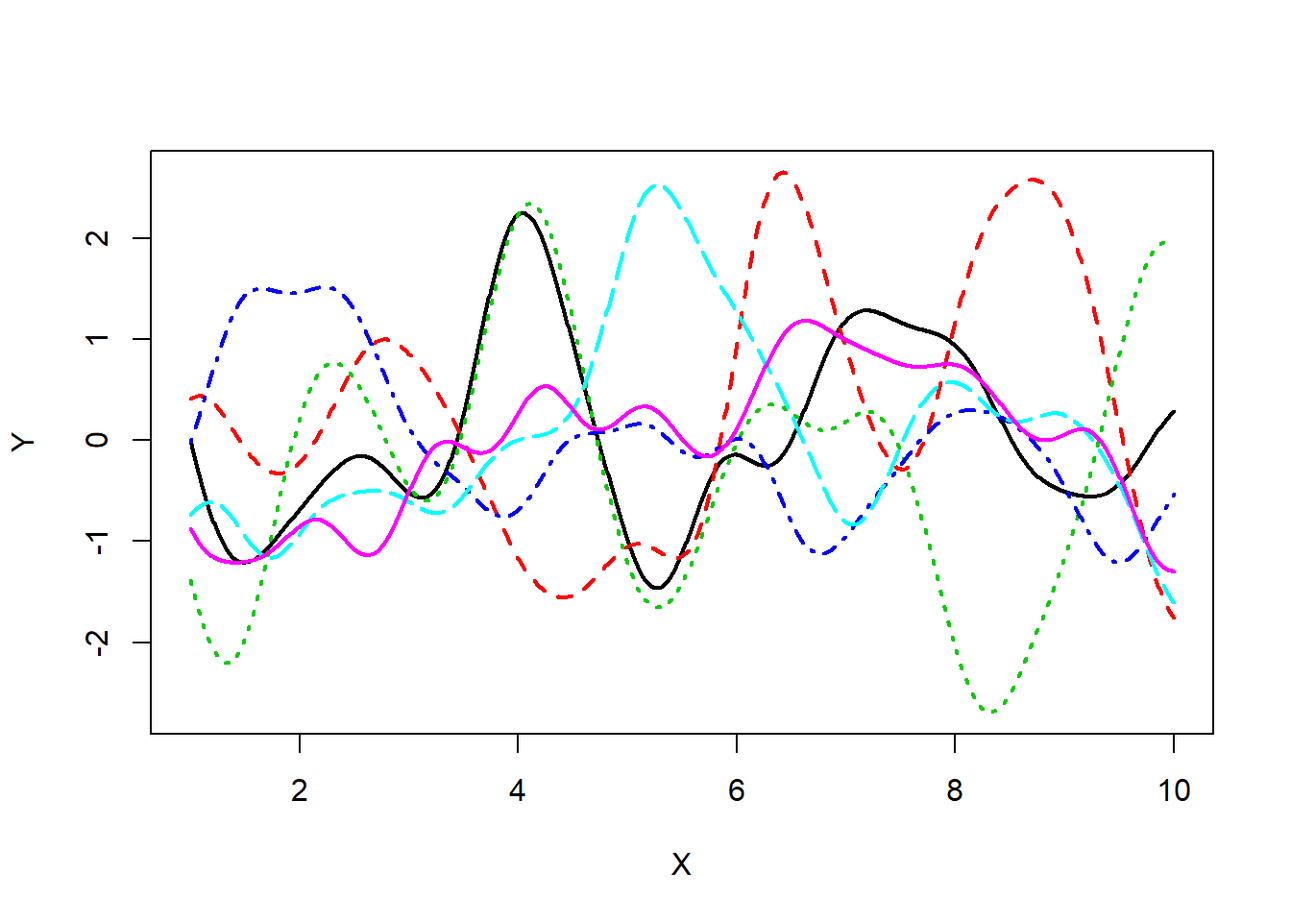
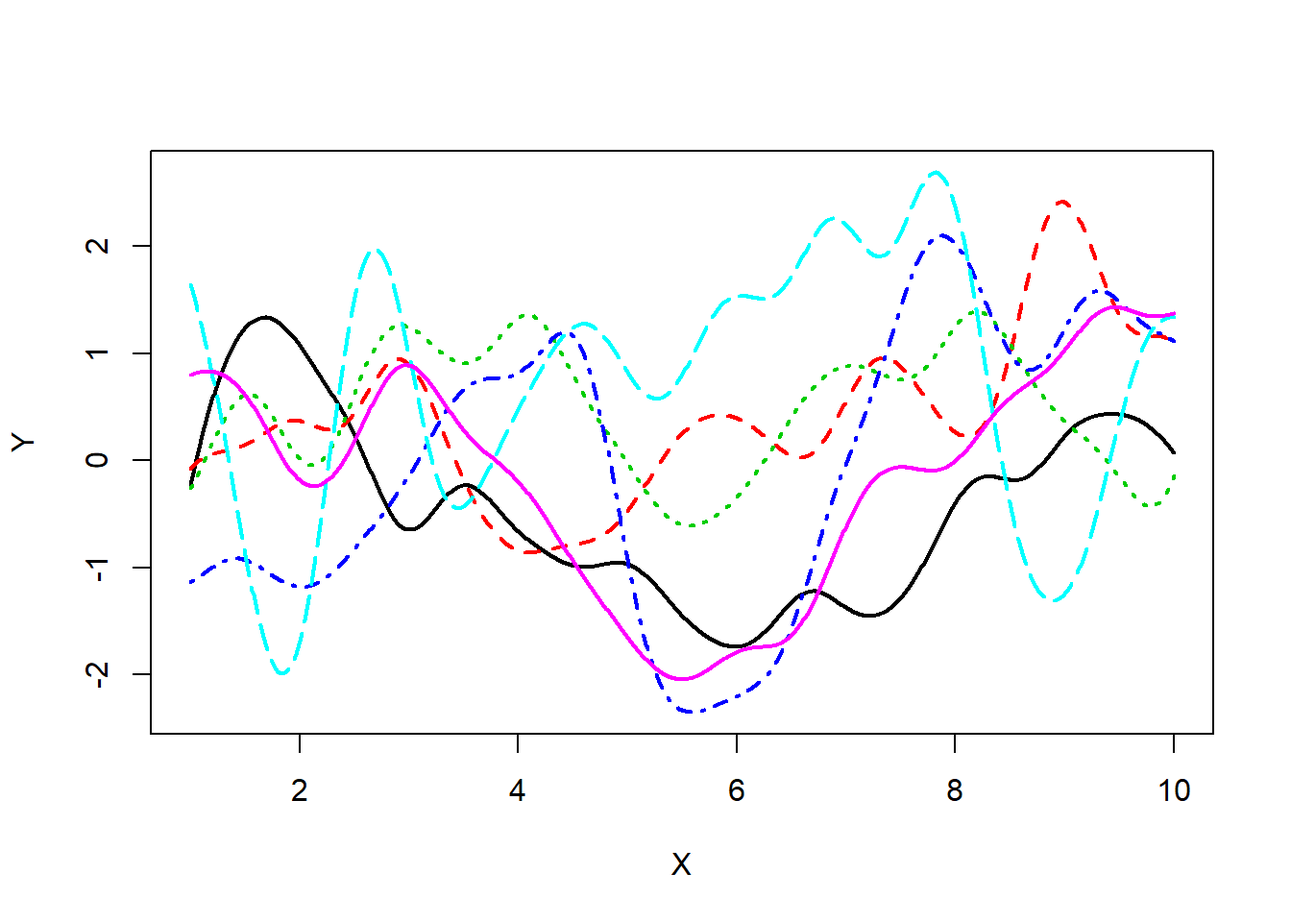
#blogup20190622 2

diff --git a/docs/post/post9/index.html b/docs/post/post9/index.html
@@ -26,7 +26,7 @@
         "datePublished": "2019-05-26 00:00:00 \x2b0000 UTC",
         "dateModified" : "2019-05-26 00:00:00 \x2b0000 UTC",
         "url" : "\/my_blog\/post\/post9\/",
-        "wordCount" : "1004",
+        "wordCount" : "1021",
         "image" : "/my_blog/%!s(\u003cnil\u003e)"",
         "keywords" : [ ""R"",""ガウス過程"","Blog" ]   
     }
@@ -47,9 +47,9 @@
 
 <link rel="stylesheet" href="https://use.fontawesome.com/releases/v5.3.1/css/all.css" integrity="sha384-mzrmE5qonljUremFsqc01SB46JvROS7bZs3IO2EmfFsd15uHvIt+Y8vEf7N7fWAU" crossorigin="anonymous">
 
-<link href="/my_blog/css/style.css?v=1561192814" rel="stylesheet" id="theme-stylesheet" type='text/css' media='all'>
+<link href="/my_blog/css/style.css?v=1561206320" rel="stylesheet" id="theme-stylesheet" type='text/css' media='all'>
 
-<link href="/my_blog/css/custom.css?v=1561192814" rel="stylesheet" type='text/css' media='all'>
+<link href="/my_blog/css/custom.css?v=1561206320" rel="stylesheet" type='text/css' media='all'>
 <link rel="shortcut icon" href="/my_blog/img/favicon.ico" type="image/x-icon">
 <link rel="icon" href="/my_blog/img/favicon.ico" type="image/x-icon">
 
@@ -350,11 +350,11 @@ E[(\textbf{y}_{n}|\textbf{W},\beta)(\textbf{y}_{n}|\textbf{W},\beta)^{T}] &amp;=
 \]</span></p>
 <p>具体的には、通常のガウス過程と同様、</p>
 <p><span class="math display">\[
-\displaystyle y_{i}  = \textbf{W}^{T}\phi(\textbf{x}_{i})+ \epsilon_{n}
+\displaystyle \textbf{y}_{n}  = \textbf{W}^{T}\phi(\textbf{x}_{n})+ \epsilon_{n}
 \]</span></p>
-<p>という風に基底関数<span class="math inline">\(\phi(\textbf{x}_{i})\)</span>をかませて拡張します。<span class="math inline">\(\phi(・)\)</span>は平均<span class="math inline">\(\textbf{0}\)</span>、分散共分散行列<span class="math inline">\(\textbf{K}_{\textbf{x}}\)</span>のガウス過程と仮定します。分散共分散行列<span class="math inline">\(\textbf{K}_{\textbf{x}}\)</span>は</p>
+<p>という風に基底関数<span class="math inline">\(\phi(\textbf{x}_{n})\)</span>をかませて拡張します。<span class="math inline">\(\phi(・)\)</span>は平均<span class="math inline">\(\textbf{0}\)</span>、分散共分散行列<span class="math inline">\(\textbf{K}_{\textbf{x}}\)</span>のガウス過程と仮定します。分散共分散行列<span class="math inline">\(\textbf{K}_{\textbf{x}}\)</span>は</p>
 <p><span class="math display">\[
-$\textbf{K}_{\textbf{x}}$ = \alpha^2\phi(\textbf{x})\phi(\textbf{x})^T
+\textbf{K}_{\textbf{x}} = \alpha^2\phi(\textbf{x})\phi(\textbf{x})^T
 \]</span></p>
 <p>であり、入力ベクトル<span class="math inline">\(\textbf{X}\)</span>を<span class="math inline">\(\phi(\textbf{・})\)</span>で非線形変換した特徴量<span class="math inline">\(\phi(\textbf{x})\)</span>が近いほど、出力値<span class="math inline">\(\textbf{Y}\)</span>も近くなりやすいという性質があることになります。GPLVMではこの性質を逆に利用しています。つまり、出力値<span class="math inline">\(Y_i\)</span>と<span class="math inline">\(Y_j\)</span>が近い→<span class="math inline">\(\phi(\textbf{x}_i)\)</span>と<span class="math inline">\(\phi(\textbf{x}_j)\)</span>が近い（内積が大きい）→<span class="math inline">\(\textbf{K}_{x,ij}\)</span>が大きい→観測不可能なデータ<span class="math inline">\(X_{i}\)</span>と<span class="math inline">\(X_{j}\)</span>は近い値（or同じようなパターン）をとる。
 この議論からもわかるように、<span class="math inline">\(\textbf{K}_{\textbf{x}}\)</span>は入力ベクトル<span class="math inline">\(\textbf{X}\)</span>それぞれの距離を表したものになります。分散共分散行列の計算には入力ベクトル<span class="math inline">\(\textbf{X}\)</span>を基底関数<span class="math inline">\(\phi(\textbf{・})\)</span>で非線形変換した後、内積を求めるといったことをする必要はなく、カーネル関数を計算するのみでOKです。今回は王道中の王道RBFカーネルを使用していますので、これを例説明します。</p>
@@ -383,13 +383,13 @@ K_{x}(x,x&#39;) &amp;=&amp; \lim_{H \to \infty}\sum_{h=-H^2}^{H^2}\phi_{h}(x)\ph
 &amp;=&amp; \tau^2 \int_{-\infty}^{\infty}\exp(-\frac{1}{r}\{2(h-\frac{x+x&#39;}{2})^2+\frac{1}{2}(x-x&#39;)^2\})dh \\
 \end{eqnarray*}
 \]</span></p>
-<p>となります。<span class="math inline">\(h\)</span>に関係の内部分を積分の外に出します。</p>
+<p>となります。<span class="math inline">\(h\)</span>に関係のない部分を積分の外に出します。</p>
 <p><span class="math display">\[
 \begin{eqnarray*}
 &amp;=&amp; \tau^2 \int_{-\infty}^{\infty}\exp(-\frac{2}{r}(h-\frac{x+x&#39;}{2})^2)dh\exp(-\frac{1}{2r}(x-x&#39;)^2) \\
 \end{eqnarray*}
 \]</span></p>
-<p>残った積分を見ると、正規分布の正規化手数と等しいことがわかります。</p>
+<p>残った積分を見ると、正規分布の正規化定数と等しいことがわかります。</p>
 <p><span class="math display">\[
 \begin{eqnarray*}
 \int_{-\infty}^{\infty}\exp(-\frac{1}{2\sigma}(h-\frac{x+x&#39;}{2})^2)dh &amp;=&amp;  \int_{-\infty}^{\infty}\exp(-\frac{2}{r}(h-\frac{x+x&#39;}{2})^2)dh\\
@@ -400,7 +400,7 @@ K_{x}(x,x&#39;) &amp;=&amp; \lim_{H \to \infty}\sum_{h=-H^2}^{H^2}\phi_{h}(x)\ph
 <p><span class="math display">\[
 \begin{eqnarray*}
 &amp;=&amp; \tau^2 \sqrt{\frac{\pi r}{2}}\exp(-\frac{1}{2r}(x-x&#39;)^2)　\\
-&amp;=&amp; \theta_{1}\exp(-\frac{1}{\theta_{2}}(x-x^T)^2)
+&amp;=&amp; \theta_{1}\exp(-\frac{1}{\theta_{2}}(x-x’)^2)
 \end{eqnarray*}
 \]</span></p>
 <p>となり、RBFカーネルと等しくなることがわかります。よって、RBFカーネルで計算した共分散は上述した基底関数で入力<span class="math inline">\(x\)</span>を無限次元へ拡張した特徴量ベクトルの内積から計算した共分散と同値になることがわかります。つまり、入力<span class="math inline">\(x\)</span>と<span class="math inline">\(x&#39;\)</span>のスカラーの計算のみで<span class="math inline">\(K_{x}(x,x&#39;)\)</span>ができてしまうという夢のような計算効率化が可能になるわけです。無限次元特徴量ベクトルの回帰問題なんて普通計算できませんからね。。。カーネル関数は偉大です。
@@ -435,6 +435,12 @@ Y &lt;-<span class="st"> </span><span class="kw">matrix</span>(<span class="dv">
 <span class="co"># Plot</span>
 <span class="kw">matplot</span>(<span class="dt">x=</span>X,<span class="dt">y=</span>Y,<span class="dt">type =</span> <span class="st">&quot;l&quot;</span>,<span class="dt">lwd =</span> <span class="dv">2</span>)</code></pre>
 <p><img src="/my_blog/post/post9_files/figure-html/unnamed-chunk-1-1.png" width="672" /></p>
+<p>非常に滑らかな関数となっていることがわかります。RBFのほかにもカーネル関数は存在します。カーネル関数を変えると基底関数が変わりますから、サンプルパスは大きく変わることになります。</p>
+<p>GPLVMの推定方法に話を進めましょう。PPCAの時と同じく、以下の尤度を最大化する観測不能な入力<span class="math inline">\(x\)</span>を推定値とします。</p>
+<p><span class="math display">\[
+\displaystyle L = - \frac{DN}{2}\ln{2\pi} - \frac{1}{2}\ln{|\textbf{K}|} - \frac{1}{2}\textbf{tr}(\textbf{K}^{-1}\textbf{YY}^{T})
+\]</span></p>
+<p>ただ、PPCAとは異なり、その値は解析的に求めることができません。尤度関数の導関数<span class="math inline">\(\displaystyle \frac{1}{D}\textbf{Y}\textbf{Y}^{T}\textbf{K}^{-1}\textbf{X} = \textbf{X}\)</span>の<span class="math inline">\(\textbf{K}\)</span>は今や複雑な関数であり、展開することができないからです。よって、共役勾配法を用いて数値的に計算するのが主流なようです（自分は準ニュートン法で実装）。</p>
 </div>
 <div id="r" class="section level3">
 <h3>Rでの実装</h3>
@@ -798,7 +804,7 @@ src="//cdn.bootcss.com/mathjax/2.7.1/MathJax.js?config=TeX-MML-AM_CHTML">
   </div>
   <script src="/my_blog/js/jquery.min.js"></script>
 <script src="/my_blog/js/jquerymigrate.js"></script>
-<script src="/my_blog/js/production.min.js?v=1561192814"></script>
+<script src="/my_blog/js/production.min.js?v=1561206320"></script>
 
 </body>
 </html>

diff --git a/content/post/post9.html b/content/post/post9.html
@@ -188,11 +188,11 @@ E[(\textbf{y}_{n}|\textbf{W},\beta)(\textbf{y}_{n}|\textbf{W},\beta)^{T}] &amp;=
 \]</span></p>
 <p>具体的には、通常のガウス過程と同様、</p>
 <p><span class="math display">\[
-\displaystyle y_{i}  = \textbf{W}^{T}\phi(\textbf{x}_{i})+ \epsilon_{n}
+\displaystyle \textbf{y}_{n}  = \textbf{W}^{T}\phi(\textbf{x}_{n})+ \epsilon_{n}
 \]</span></p>
-<p>という風に基底関数<span class="math inline">\(\phi(\textbf{x}_{i})\)</span>をかませて拡張します。<span class="math inline">\(\phi(・)\)</span>は平均<span class="math inline">\(\textbf{0}\)</span>、分散共分散行列<span class="math inline">\(\textbf{K}_{\textbf{x}}\)</span>のガウス過程と仮定します。分散共分散行列<span class="math inline">\(\textbf{K}_{\textbf{x}}\)</span>は</p>
+<p>という風に基底関数<span class="math inline">\(\phi(\textbf{x}_{n})\)</span>をかませて拡張します。<span class="math inline">\(\phi(・)\)</span>は平均<span class="math inline">\(\textbf{0}\)</span>、分散共分散行列<span class="math inline">\(\textbf{K}_{\textbf{x}}\)</span>のガウス過程と仮定します。分散共分散行列<span class="math inline">\(\textbf{K}_{\textbf{x}}\)</span>は</p>
 <p><span class="math display">\[
-$\textbf{K}_{\textbf{x}}$ = \alpha^2\phi(\textbf{x})\phi(\textbf{x})^T
+\textbf{K}_{\textbf{x}} = \alpha^2\phi(\textbf{x})\phi(\textbf{x})^T
 \]</span></p>
 <p>であり、入力ベクトル<span class="math inline">\(\textbf{X}\)</span>を<span class="math inline">\(\phi(\textbf{・})\)</span>で非線形変換した特徴量<span class="math inline">\(\phi(\textbf{x})\)</span>が近いほど、出力値<span class="math inline">\(\textbf{Y}\)</span>も近くなりやすいという性質があることになります。GPLVMではこの性質を逆に利用しています。つまり、出力値<span class="math inline">\(Y_i\)</span>と<span class="math inline">\(Y_j\)</span>が近い→<span class="math inline">\(\phi(\textbf{x}_i)\)</span>と<span class="math inline">\(\phi(\textbf{x}_j)\)</span>が近い（内積が大きい）→<span class="math inline">\(\textbf{K}_{x,ij}\)</span>が大きい→観測不可能なデータ<span class="math inline">\(X_{i}\)</span>と<span class="math inline">\(X_{j}\)</span>は近い値（or同じようなパターン）をとる。
 この議論からもわかるように、<span class="math inline">\(\textbf{K}_{\textbf{x}}\)</span>は入力ベクトル<span class="math inline">\(\textbf{X}\)</span>それぞれの距離を表したものになります。分散共分散行列の計算には入力ベクトル<span class="math inline">\(\textbf{X}\)</span>を基底関数<span class="math inline">\(\phi(\textbf{・})\)</span>で非線形変換した後、内積を求めるといったことをする必要はなく、カーネル関数を計算するのみでOKです。今回は王道中の王道RBFカーネルを使用していますので、これを例説明します。</p>
@@ -221,13 +221,13 @@ K_{x}(x,x&#39;) &amp;=&amp; \lim_{H \to \infty}\sum_{h=-H^2}^{H^2}\phi_{h}(x)\ph
 &amp;=&amp; \tau^2 \int_{-\infty}^{\infty}\exp(-\frac{1}{r}\{2(h-\frac{x+x&#39;}{2})^2+\frac{1}{2}(x-x&#39;)^2\})dh \\
 \end{eqnarray*}
 \]</span></p>
-<p>となります。<span class="math inline">\(h\)</span>に関係の内部分を積分の外に出します。</p>
+<p>となります。<span class="math inline">\(h\)</span>に関係のない部分を積分の外に出します。</p>
 <p><span class="math display">\[
 \begin{eqnarray*}
 &amp;=&amp; \tau^2 \int_{-\infty}^{\infty}\exp(-\frac{2}{r}(h-\frac{x+x&#39;}{2})^2)dh\exp(-\frac{1}{2r}(x-x&#39;)^2) \\
 \end{eqnarray*}
 \]</span></p>
-<p>残った積分を見ると、正規分布の正規化手数と等しいことがわかります。</p>
+<p>残った積分を見ると、正規分布の正規化定数と等しいことがわかります。</p>
 <p><span class="math display">\[
 \begin{eqnarray*}
 \int_{-\infty}^{\infty}\exp(-\frac{1}{2\sigma}(h-\frac{x+x&#39;}{2})^2)dh &amp;=&amp;  \int_{-\infty}^{\infty}\exp(-\frac{2}{r}(h-\frac{x+x&#39;}{2})^2)dh\\
@@ -238,7 +238,7 @@ K_{x}(x,x&#39;) &amp;=&amp; \lim_{H \to \infty}\sum_{h=-H^2}^{H^2}\phi_{h}(x)\ph
 <p><span class="math display">\[
 \begin{eqnarray*}
 &amp;=&amp; \tau^2 \sqrt{\frac{\pi r}{2}}\exp(-\frac{1}{2r}(x-x&#39;)^2)　\\
-&amp;=&amp; \theta_{1}\exp(-\frac{1}{\theta_{2}}(x-x^T)^2)
+&amp;=&amp; \theta_{1}\exp(-\frac{1}{\theta_{2}}(x-x’)^2)
 \end{eqnarray*}
 \]</span></p>
 <p>となり、RBFカーネルと等しくなることがわかります。よって、RBFカーネルで計算した共分散は上述した基底関数で入力<span class="math inline">\(x\)</span>を無限次元へ拡張した特徴量ベクトルの内積から計算した共分散と同値になることがわかります。つまり、入力<span class="math inline">\(x\)</span>と<span class="math inline">\(x&#39;\)</span>のスカラーの計算のみで<span class="math inline">\(K_{x}(x,x&#39;)\)</span>ができてしまうという夢のような計算効率化が可能になるわけです。無限次元特徴量ベクトルの回帰問題なんて普通計算できませんからね。。。カーネル関数は偉大です。
@@ -273,6 +273,12 @@ Y &lt;-<span class="st"> </span><span class="kw">matrix</span>(<span class="dv">
 <span class="co"># Plot</span>
 <span class="kw">matplot</span>(<span class="dt">x=</span>X,<span class="dt">y=</span>Y,<span class="dt">type =</span> <span class="st">&quot;l&quot;</span>,<span class="dt">lwd =</span> <span class="dv">2</span>)</code></pre>
 <p><img src="/my_blog/post/post9_files/figure-html/unnamed-chunk-1-1.png" width="672" /></p>
+<p>非常に滑らかな関数となっていることがわかります。RBFのほかにもカーネル関数は存在します。カーネル関数を変えると基底関数が変わりますから、サンプルパスは大きく変わることになります。</p>
+<p>GPLVMの推定方法に話を進めましょう。PPCAの時と同じく、以下の尤度を最大化する観測不能な入力<span class="math inline">\(x\)</span>を推定値とします。</p>
+<p><span class="math display">\[
+\displaystyle L = - \frac{DN}{2}\ln{2\pi} - \frac{1}{2}\ln{|\textbf{K}|} - \frac{1}{2}\textbf{tr}(\textbf{K}^{-1}\textbf{YY}^{T})
+\]</span></p>
+<p>ただ、PPCAとは異なり、その値は解析的に求めることができません。尤度関数の導関数<span class="math inline">\(\displaystyle \frac{1}{D}\textbf{Y}\textbf{Y}^{T}\textbf{K}^{-1}\textbf{X} = \textbf{X}\)</span>の<span class="math inline">\(\textbf{K}\)</span>は今や複雑な関数であり、展開することができないからです。よって、共役勾配法を用いて数値的に計算するのが主流なようです（自分は準ニュートン法で実装）。</p>
 </div>
 <div id="r" class="section level3">
 <h3>Rでの実装</h3>

diff --git a/docs/post/post5/index.html b/docs/post/post5/index.html
@@ -47,9 +47,9 @@
 
 <link rel="stylesheet" href="https://use.fontawesome.com/releases/v5.3.1/css/all.css" integrity="sha384-mzrmE5qonljUremFsqc01SB46JvROS7bZs3IO2EmfFsd15uHvIt+Y8vEf7N7fWAU" crossorigin="anonymous">
 
-<link href="/my_blog/css/style.css?v=1561192814" rel="stylesheet" id="theme-stylesheet" type='text/css' media='all'>
+<link href="/my_blog/css/style.css?v=1561206320" rel="stylesheet" id="theme-stylesheet" type='text/css' media='all'>
 
-<link href="/my_blog/css/custom.css?v=1561192814" rel="stylesheet" type='text/css' media='all'>
+<link href="/my_blog/css/custom.css?v=1561206320" rel="stylesheet" type='text/css' media='all'>
 <link rel="shortcut icon" href="/my_blog/img/favicon.ico" type="image/x-icon">
 <link rel="icon" href="/my_blog/img/favicon.ico" type="image/x-icon">
 
@@ -1405,7 +1405,7 @@ src="//cdn.bootcss.com/mathjax/2.7.1/MathJax.js?config=TeX-MML-AM_CHTML">
   </div>
   <script src="/my_blog/js/jquery.min.js"></script>
 <script src="/my_blog/js/jquerymigrate.js"></script>
-<script src="/my_blog/js/production.min.js?v=1561192814"></script>
+<script src="/my_blog/js/production.min.js?v=1561206320"></script>
 
 </body>
 </html>

diff --git a/docs/about/index.html b/docs/about/index.html
@@ -47,9 +47,9 @@
 
 <link rel="stylesheet" href="https://use.fontawesome.com/releases/v5.3.1/css/all.css" integrity="sha384-mzrmE5qonljUremFsqc01SB46JvROS7bZs3IO2EmfFsd15uHvIt+Y8vEf7N7fWAU" crossorigin="anonymous">
 
-<link href="/my_blog/css/style.css?v=1561192814" rel="stylesheet" id="theme-stylesheet" type='text/css' media='all'>
+<link href="/my_blog/css/style.css?v=1561206320" rel="stylesheet" id="theme-stylesheet" type='text/css' media='all'>
 
-<link href="/my_blog/css/custom.css?v=1561192814" rel="stylesheet" type='text/css' media='all'>
+<link href="/my_blog/css/custom.css?v=1561206320" rel="stylesheet" type='text/css' media='all'>
 <link rel="shortcut icon" href="/my_blog/img/favicon.ico" type="image/x-icon">
 <link rel="icon" href="/my_blog/img/favicon.ico" type="image/x-icon">
 
@@ -439,7 +439,7 @@ src="//cdn.bootcss.com/mathjax/2.7.1/MathJax.js?config=TeX-MML-AM_CHTML">
   </div>
   <script src="/my_blog/js/jquery.min.js"></script>
 <script src="/my_blog/js/jquerymigrate.js"></script>
-<script src="/my_blog/js/production.min.js?v=1561192814"></script>
+<script src="/my_blog/js/production.min.js?v=1561206320"></script>
 
 </body>
 </html>

diff --git a/docs/contact/index.html b/docs/contact/index.html
@@ -47,9 +47,9 @@
 
 <link rel="stylesheet" href="https://use.fontawesome.com/releases/v5.3.1/css/all.css" integrity="sha384-mzrmE5qonljUremFsqc01SB46JvROS7bZs3IO2EmfFsd15uHvIt+Y8vEf7N7fWAU" crossorigin="anonymous">
 
-<link href="/my_blog/css/style.css?v=1561192814" rel="stylesheet" id="theme-stylesheet" type='text/css' media='all'>
+<link href="/my_blog/css/style.css?v=1561206320" rel="stylesheet" id="theme-stylesheet" type='text/css' media='all'>
 
-<link href="/my_blog/css/custom.css?v=1561192814" rel="stylesheet" type='text/css' media='all'>
+<link href="/my_blog/css/custom.css?v=1561206320" rel="stylesheet" type='text/css' media='all'>
 <link rel="shortcut icon" href="/my_blog/img/favicon.ico" type="image/x-icon">
 <link rel="icon" href="/my_blog/img/favicon.ico" type="image/x-icon">
 
@@ -364,7 +364,7 @@ src="//cdn.bootcss.com/mathjax/2.7.1/MathJax.js?config=TeX-MML-AM_CHTML">
   </div>
   <script src="/my_blog/js/jquery.min.js"></script>
 <script src="/my_blog/js/jquerymigrate.js"></script>
-<script src="/my_blog/js/production.min.js?v=1561192814"></script>
+<script src="/my_blog/js/production.min.js?v=1561206320"></script>
 
 </body>
 </html>

diff --git a/docs/index.html b/docs/index.html
@@ -48,9 +48,9 @@
 
 <link rel="stylesheet" href="https://use.fontawesome.com/releases/v5.3.1/css/all.css" integrity="sha384-mzrmE5qonljUremFsqc01SB46JvROS7bZs3IO2EmfFsd15uHvIt+Y8vEf7N7fWAU" crossorigin="anonymous">
 
-<link href="/my_blog/css/style.css?v=1561192814" rel="stylesheet" id="theme-stylesheet" type='text/css' media='all'>
+<link href="/my_blog/css/style.css?v=1561206320" rel="stylesheet" id="theme-stylesheet" type='text/css' media='all'>
 
-<link href="/my_blog/css/custom.css?v=1561192814" rel="stylesheet" type='text/css' media='all'>
+<link href="/my_blog/css/custom.css?v=1561206320" rel="stylesheet" type='text/css' media='all'>
 <link rel="shortcut icon" href="/my_blog/img/favicon.ico" type="image/x-icon">
 <link rel="icon" href="/my_blog/img/favicon.ico" type="image/x-icon">
 
@@ -944,7 +944,7 @@ src="//cdn.bootcss.com/mathjax/2.7.1/MathJax.js?config=TeX-MML-AM_CHTML">
   </div>
   <script src="/my_blog/js/jquery.min.js"></script>
 <script src="/my_blog/js/jquerymigrate.js"></script>
-<script src="/my_blog/js/production.min.js?v=1561192814"></script>
+<script src="/my_blog/js/production.min.js?v=1561206320"></script>
 
 </body>
 </html>

diff --git a/docs/page/2/index.html b/docs/page/2/index.html
@@ -48,9 +48,9 @@
 
 <link rel="stylesheet" href="https://use.fontawesome.com/releases/v5.3.1/css/all.css" integrity="sha384-mzrmE5qonljUremFsqc01SB46JvROS7bZs3IO2EmfFsd15uHvIt+Y8vEf7N7fWAU" crossorigin="anonymous">
 
-<link href="/my_blog/css/style.css?v=1561196446" rel="stylesheet" id="theme-stylesheet" type='text/css' media='all'>
+<link href="/my_blog/css/style.css?v=1561208100" rel="stylesheet" id="theme-stylesheet" type='text/css' media='all'>
 
-<link href="/my_blog/css/custom.css?v=1561196446" rel="stylesheet" type='text/css' media='all'>
+<link href="/my_blog/css/custom.css?v=1561208100" rel="stylesheet" type='text/css' media='all'>
 <link rel="shortcut icon" href="/my_blog/img/favicon.ico" type="image/x-icon">
 <link rel="icon" href="/my_blog/img/favicon.ico" type="image/x-icon">
 
@@ -642,7 +642,7 @@ src="//cdn.bootcss.com/mathjax/2.7.1/MathJax.js?config=TeX-MML-AM_CHTML">
   </div>
   <script src="/my_blog/js/jquery.min.js"></script>
 <script src="/my_blog/js/jquerymigrate.js"></script>
-<script src="/my_blog/js/production.min.js?v=1561196446"></script>
+<script src="/my_blog/js/production.min.js?v=1561208100"></script>
 
 </body>
 </html>

diff --git a/docs/post/post2/index.html b/docs/post/post2/index.html
@@ -47,9 +47,9 @@
 
 <link rel="stylesheet" href="https://use.fontawesome.com/releases/v5.3.1/css/all.css" integrity="sha384-mzrmE5qonljUremFsqc01SB46JvROS7bZs3IO2EmfFsd15uHvIt+Y8vEf7N7fWAU" crossorigin="anonymous">
 
-<link href="/my_blog/css/style.css?v=1561192814" rel="stylesheet" id="theme-stylesheet" type='text/css' media='all'>
+<link href="/my_blog/css/style.css?v=1561206320" rel="stylesheet" id="theme-stylesheet" type='text/css' media='all'>
 
-<link href="/my_blog/css/custom.css?v=1561192814" rel="stylesheet" type='text/css' media='all'>
+<link href="/my_blog/css/custom.css?v=1561206320" rel="stylesheet" type='text/css' media='all'>
 <link rel="shortcut icon" href="/my_blog/img/favicon.ico" type="image/x-icon">
 <link rel="icon" href="/my_blog/img/favicon.ico" type="image/x-icon">
 
@@ -816,7 +816,7 @@ src="//cdn.bootcss.com/mathjax/2.7.1/MathJax.js?config=TeX-MML-AM_CHTML">
   </div>
   <script src="/my_blog/js/jquery.min.js"></script>
 <script src="/my_blog/js/jquerymigrate.js"></script>
-<script src="/my_blog/js/production.min.js?v=1561192814"></script>
+<script src="/my_blog/js/production.min.js?v=1561206320"></script>
 
 </body>
 </html>

diff --git a/docs/post/post3/index.html b/docs/post/post3/index.html
@@ -47,9 +47,9 @@
 
 <link rel="stylesheet" href="https://use.fontawesome.com/releases/v5.3.1/css/all.css" integrity="sha384-mzrmE5qonljUremFsqc01SB46JvROS7bZs3IO2EmfFsd15uHvIt+Y8vEf7N7fWAU" crossorigin="anonymous">
 
-<link href="/my_blog/css/style.css?v=1561192814" rel="stylesheet" id="theme-stylesheet" type='text/css' media='all'>
+<link href="/my_blog/css/style.css?v=1561206320" rel="stylesheet" id="theme-stylesheet" type='text/css' media='all'>
 
-<link href="/my_blog/css/custom.css?v=1561192814" rel="stylesheet" type='text/css' media='all'>
+<link href="/my_blog/css/custom.css?v=1561206320" rel="stylesheet" type='text/css' media='all'>
 <link rel="shortcut icon" href="/my_blog/img/favicon.ico" type="image/x-icon">
 <link rel="icon" href="/my_blog/img/favicon.ico" type="image/x-icon">
 
@@ -904,7 +904,7 @@ src="//cdn.bootcss.com/mathjax/2.7.1/MathJax.js?config=TeX-MML-AM_CHTML">
   </div>
   <script src="/my_blog/js/jquery.min.js"></script>
 <script src="/my_blog/js/jquerymigrate.js"></script>
-<script src="/my_blog/js/production.min.js?v=1561192814"></script>
+<script src="/my_blog/js/production.min.js?v=1561206320"></script>
 
 </body>
 </html>

diff --git a/docs/post/post4/index.html b/docs/post/post4/index.html
@@ -47,9 +47,9 @@
 
 <link rel="stylesheet" href="https://use.fontawesome.com/releases/v5.3.1/css/all.css" integrity="sha384-mzrmE5qonljUremFsqc01SB46JvROS7bZs3IO2EmfFsd15uHvIt+Y8vEf7N7fWAU" crossorigin="anonymous">
 
-<link href="/my_blog/css/style.css?v=1561192814" rel="stylesheet" id="theme-stylesheet" type='text/css' media='all'>
+<link href="/my_blog/css/style.css?v=1561206320" rel="stylesheet" id="theme-stylesheet" type='text/css' media='all'>
 
-<link href="/my_blog/css/custom.css?v=1561192814" rel="stylesheet" type='text/css' media='all'>
+<link href="/my_blog/css/custom.css?v=1561206320" rel="stylesheet" type='text/css' media='all'>
 <link rel="shortcut icon" href="/my_blog/img/favicon.ico" type="image/x-icon">
 <link rel="icon" href="/my_blog/img/favicon.ico" type="image/x-icon">
 
@@ -454,7 +454,7 @@ src="//cdn.bootcss.com/mathjax/2.7.1/MathJax.js?config=TeX-MML-AM_CHTML">
   </div>
   <script src="/my_blog/js/jquery.min.js"></script>
 <script src="/my_blog/js/jquerymigrate.js"></script>
-<script src="/my_blog/js/production.min.js?v=1561192814"></script>
+<script src="/my_blog/js/production.min.js?v=1561206320"></script>
 
 </body>
 </html>

diff --git a/docs/post/post6/index.html b/docs/post/post6/index.html
@@ -47,9 +47,9 @@
 
 <link rel="stylesheet" href="https://use.fontawesome.com/releases/v5.3.1/css/all.css" integrity="sha384-mzrmE5qonljUremFsqc01SB46JvROS7bZs3IO2EmfFsd15uHvIt+Y8vEf7N7fWAU" crossorigin="anonymous">
 
-<link href="/my_blog/css/style.css?v=1561192814" rel="stylesheet" id="theme-stylesheet" type='text/css' media='all'>
+<link href="/my_blog/css/style.css?v=1561206320" rel="stylesheet" id="theme-stylesheet" type='text/css' media='all'>
 
-<link href="/my_blog/css/custom.css?v=1561192814" rel="stylesheet" type='text/css' media='all'>
+<link href="/my_blog/css/custom.css?v=1561206320" rel="stylesheet" type='text/css' media='all'>
 <link rel="shortcut icon" href="/my_blog/img/favicon.ico" type="image/x-icon">
 <link rel="icon" href="/my_blog/img/favicon.ico" type="image/x-icon">
 
@@ -737,7 +737,7 @@ src="//cdn.bootcss.com/mathjax/2.7.1/MathJax.js?config=TeX-MML-AM_CHTML">
   </div>
   <script src="/my_blog/js/jquery.min.js"></script>
 <script src="/my_blog/js/jquerymigrate.js"></script>
-<script src="/my_blog/js/production.min.js?v=1561192814"></script>
+<script src="/my_blog/js/production.min.js?v=1561206320"></script>
 
 </body>
 </html>

diff --git a/docs/post/post7/index.html b/docs/post/post7/index.html
@@ -47,9 +47,9 @@
 
 <link rel="stylesheet" href="https://use.fontawesome.com/releases/v5.3.1/css/all.css" integrity="sha384-mzrmE5qonljUremFsqc01SB46JvROS7bZs3IO2EmfFsd15uHvIt+Y8vEf7N7fWAU" crossorigin="anonymous">
 
-<link href="/my_blog/css/style.css?v=1561192814" rel="stylesheet" id="theme-stylesheet" type='text/css' media='all'>
+<link href="/my_blog/css/style.css?v=1561206320" rel="stylesheet" id="theme-stylesheet" type='text/css' media='all'>
 
-<link href="/my_blog/css/custom.css?v=1561192814" rel="stylesheet" type='text/css' media='all'>
+<link href="/my_blog/css/custom.css?v=1561206320" rel="stylesheet" type='text/css' media='all'>
 <link rel="shortcut icon" href="/my_blog/img/favicon.ico" type="image/x-icon">
 <link rel="icon" href="/my_blog/img/favicon.ico" type="image/x-icon">
 
@@ -694,7 +694,7 @@ src="//cdn.bootcss.com/mathjax/2.7.1/MathJax.js?config=TeX-MML-AM_CHTML">
   </div>
   <script src="/my_blog/js/jquery.min.js"></script>
 <script src="/my_blog/js/jquerymigrate.js"></script>
-<script src="/my_blog/js/production.min.js?v=1561192814"></script>
+<script src="/my_blog/js/production.min.js?v=1561206320"></script>
 
 </body>
 </html>
